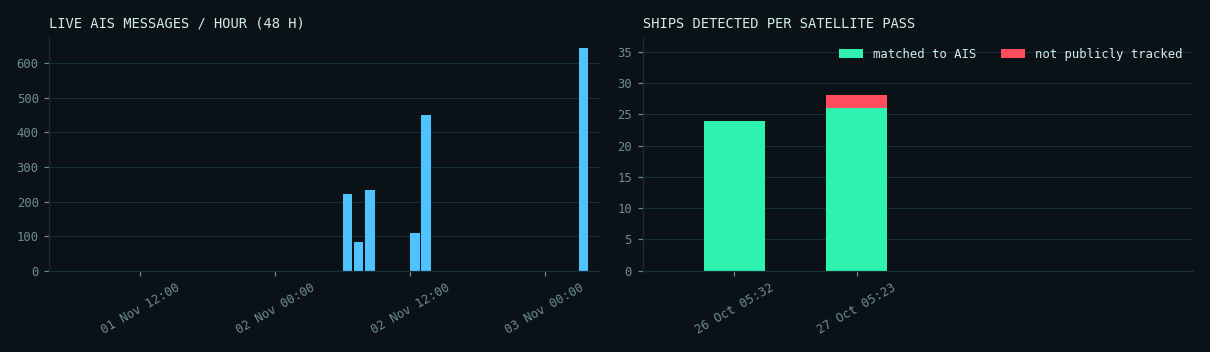
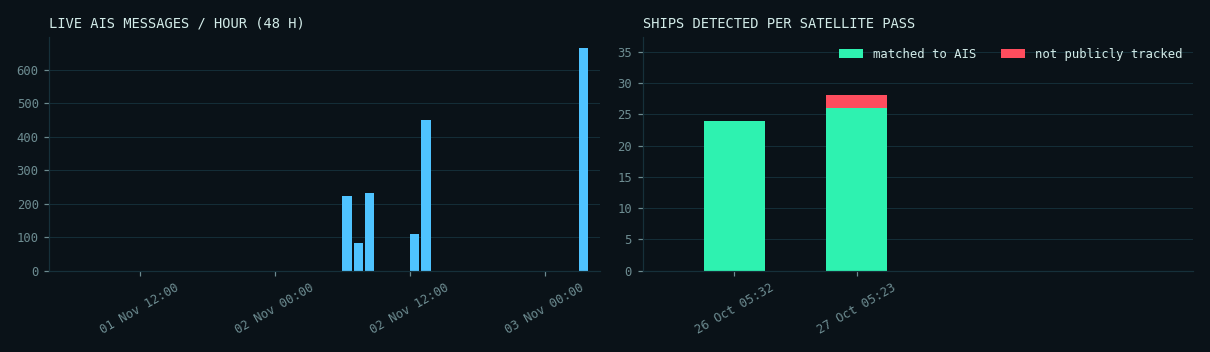
Automatic site update 2026-11-03 03:56 UTC

diff --git a/docs/denmark/index.html b/docs/denmark/index.html
@@ -83,7 +83,7 @@ footer{border-top:1px solid var(--line);padding:18px 0 28px;font:12px/1.6 var(--
   <div><div class="kicker">SAR &times; AIS &middot; MARITIME AWARENESS</div><div class="title">DARK VESSEL <b>DETECTION</b></div></div></a>
  <div class="status"><span class="pill"><span class="dot live"></span>AIS FEED <strong>LIVE</strong></span>
   <span class="pill">UTC <strong id="utc">--:--:--</strong></span>
-  <span class="pill">UPDATED <strong>03 Nov 03:55</strong></span></div>
+  <span class="pill">UPDATED <strong>03 Nov 03:57</strong></span></div>
 </div><nav class="tabs"><a class="" href="../index.html">OVERVIEW</a><a class="" href="../mumbai/index.html">MUMBAI</a><a class="on" href="../denmark/index.html">DENMARK</a><a class="" href="../nn/index.html">NEURAL NET</a><a class="" href="../demo/index.html">SIMULATION</a></nav></div></header>
 <main class="wrap"><div class="coords">SECTOR // DENMARK &middot; 55.55&ndash;55.85&deg;N &middot; 12.55&ndash;12.95&deg;E</div>
 <h1>Oresund, Copenhagen (Denmark/Sweden)</h1><p class="lede">Validation area. Sentinel-1 images it almost daily and coastal AIS coverage is dense, so the full match between radar and AIS can be shown and checked.</p>
@@ -98,7 +98,7 @@ footer{border-top:1px solid var(--line);padding:18px 0 28px;font:12px/1.6 var(--
 <div class="legend"><span><i style="background:var(--green)"></i>matched to AIS</span><span><i style="background:var(--red)"></i>not tracked &middot; high confidence</span>
 <span><i style="background:var(--amber)"></i>not tracked &middot; low confidence</span><span><i style="background:var(--cyan)"></i>live AIS position</span></div>
 <div id="map" class="map"></div><script>
-const D=[{"lon": 12.574560869565218, "lat": 55.849597826086956, "length_m": 72.681575622935, "score": 0.6554655519501138, "shore_km": 0.14150886088341372, "status": "matched", "reason": "", "confidence": "high", "crop": "", "ship_prob": 0.9335045218467712}, {"lon": 12.704759174311928, "lat": 55.82280412844037, "length_m": 364.1071436957287, "score": 0.9904753373251979, "shore_km": 9.407061429825474, "status": "matched", "reason": "", "confidence": "high", "crop": "", "ship_prob": 0.9868959784507751}, {"lon": 12.786416463414636, "lat": 55.804669512195126, "length_m": 155.0522474362954, "score": 0.9999646038759398, "shore_km": 4.658419014138412, "status": "matched", "reason": "", "confidence": "high", "crop": "", "ship_prob": 0.9993557333946228}, {"lon": 12.88229375, "lat": 55.849146875, "length_m": 53.38783327710226, "score": 0.9899546194309776, "shore_km": 0.9067240720863213, "status": "candidate", "reason": "same_spot_in_another_pass", "confidence": "low", "crop": "crops/S1-Oresund-20261027_37.png", "ship_prob": 0.7905591130256653}, {"lon": 12.604004166666668, "lat": 55.75985, "length_m": 141.84238362073958, "score": 0.6867268898684522, "shore_km": 0.07168283192738693, "status": "matched", "reason": "", "confidence": "high", "crop": "", "ship_prob": 0.5051270127296448}, {"lon": 12.605736764705883, "lat": 55.75241323529412, "length_m": 122.11483240811877, "score": 0.9136889320646264, "shore_km": 0.6454382429486746, "status": "candidate", "reason": "same_spot_in_another_pass", "confidence": "low", "crop": "crops/S1-Oresund-20261027_77.png", "ship_prob": 0.7927113175392151}, {"lon": 12.703722571428573, "lat": 55.77917742857143, "length_m": 223.0817648726515, "score": 0.9996320924909895, "shore_km": 5.943270442766068, "status": "matched", "reason": "", "confidence": "high", "crop": "", "ship_prob": 0.9938097596168518}, {"lon": 12.902757692307693, "lat": 55.75654230769231, "length_m": 65.46226537445588, "score": 0.7187896049600956, "shore_km": 0.03584141596369347, "status": "matched", "reason": "", "confidence": "high", "crop": "", "ship_prob": 0.8691755533218384}, {"lon": 12.589922222222222, "lat": 55.725764814814816, "length_m": 146.45480845096748, "score": 0.9957587025210503, "shore_km": 0.034771280891766385, "status": "matched", "reason": "", "confidence": "high", "crop": "", "ship_prob": 0.9983701109886169}, {"lon": 12.598472047244096, "lat": 55.72077913385827, "length_m": 207.62671185403417, "score": 0.609772230082722, "shore_km": 0.14016751439395445, "status": "matched", "reason": "", "confidence": "high", "crop": "", "ship_prob": 0.6074324250221252}, {"lon": 12.589218, "lat": 55.712854, "length_m": 90.49550243938293, "score": 0.6486089656085543, "shore_km": 0.043464101114707984, "status": "matched", "reason": "", "confidence": "high", "crop": "", "ship_prob": 0.9998902082443237}, {"lon": 12.59024090909091, "lat": 55.71147090909091, "length_m": 162.54265478639104, "score": 1.0, "shore_km": 0.06146752127277559, "status": "matched", "reason": "", "confidence": "high", "crop": "", "ship_prob": 0.9999992847442627}, {"lon": 12.597835937500001, "lat": 55.701648437500005, "length_m": 133.31776511703256, "score": 0.9396217092764791, "shore_km": 0.06789309632894441, "status": "matched", "reason": "", "confidence": "high", "crop": "", "ship_prob": 0.9999727010726929}, {"lon": 12.60914, "lat": 55.69712, "length_m": 65.36743236464424, "score": 0.7827588237578229, "shore_km": 0.03134240904220623, "status": "matched", "reason": "", "confidence": "high", "crop": "", "ship_prob": 0.9867132902145386}, {"lon": 12.668552272727274, "lat": 55.72007840909091, "length_m": 207.26605497726354, "score": 0.6251792307103263, "shore_km": 0.03584141596369347, "status": "matched", "reason": "", "confidence": "high", "crop": "", "ship_prob": 0.9087074398994446}, {"lon": 12.5996, "lat": 55.68885, "length_m": 40.00855981470757, "score": 0.7664068666153926, "shore_km": 0.024587008509110237, "status": "matched", "reason": "", "confidence": "high", "crop": "", "ship_prob": 0.9766618013381958}, {"lon": 12.595819230769232, "lat": 55.67989871794872, "length_m": 127.62371588738732, "score": 0.9426870407335851, "shore_km": 0.05068741655051085, "status": "matched", "reason": "", "confidence": "high", "crop": "", "ship_prob": 0.9998841285705566}, {"lon": 12.594722222222224, "lat": 55.67918888888889, "length_m": 40.64467714079742, "score": 0.7639524834029205, "shore_km": 0.043464101114707984, "status": "matched", "reason": "", "confidence": "high", "crop": "", "ship_prob": 0.9999454021453857}, {"lon": 12.610660714285714, "lat": 55.69618571428572, "length_m": 94.51225356515693, "score": 0.9621795096736379, "shore_km": 0.03134240904220623, "status": "matched", "reason": "", "confidence": "high", "crop": "", "ship_prob": 0.999042809009552}, {"lon": 12.649045000000001, "lat": 55.692155, "length_m": 80.63364746000343, "score": 0.8515033668168979, "shore_km": 0.8863693295037299, "status": "matched", "reason": "", "confidence": "high", "crop": "", "ship_prob": 0.4333752989768982}, {"lon": 12.630751724137932, "lat": 55.685453448275865, "length_m": 125.00287123881988, "score": 0.93629426700422, "shore_km": 0.043464101114707984, "status": "matched", "reason": "", "confidence": "high", "crop": "", "ship_prob": 0.9975905418395996}, {"lon": 12.634987254901962, "lat": 55.677338235294116, "length_m": 276.5478352749318, "score": 0.7686103584091717, "shore_km": 0.024587008509110237, "status": "matched", "reason": "", "confidence": "high", "crop": "", "ship_prob": 0.9729636907577515}, {"lon": 12.68766150442478, "lat": 55.69581814159292, "length_m": 176.8074930452176, "score": 0.923202226335388, "shore_km": 2.6834920471942074, "status": "matched", "reason": "", "confidence": "high", "crop": "", "ship_prob": 0.8427141904830933}, {"lon": 12.65826847826087, "lat": 55.63610108695652, "length_m": 174.21377549767067, "score": 0.9833187000337672, "shore_km": 0.043464101114707984, "status": "matched", "reason": "", "confidence": "high", "crop": "", "ship_prob": 0.9998973608016968}, {"lon": 12.680683333333334, "lat": 55.610910000000004, "length_m": 74.22790892756812, "score": 0.6314184609397504, "shore_km": 0.03134240904220623, "status": "matched", "reason": "", "confidence": "high", "crop": "", "ship_prob": 0.44054293632507324}, {"lon": 12.868352132196163, "lat": 55.60022420042644, "length_m": 299.20726350177785, "score": 0.9999960398718075, "shore_km": 2.8169298200726325, "status": "matched", "reason": "", "confidence": "high", "crop": "", "ship_prob": 0.9967911839485168}, {"lon": 12.680875, "lat": 55.59323, "length_m": 95.51211981545671, "score": 0.7585723176580392, "shore_km": 0.03584141596369347, "status": "matched", "reason": "", "confidence": "high", "crop": "", "ship_prob": 0.797581672668457}, {"lon": 12.706387741935485, "lat": 55.56306903225806, "length_m": 301.4640427512081, "score": 0.9999731380181186, "shore_km": 3.1965238712919084, "status": "matched", "reason": "", "confidence": "high", "crop": "", "ship_prob": 0.9941650032997131}],LIVE=[{"lon": 12.82762, "lat": 55.86275333333333, "sog": 0.0, "age": 26}, {"lon": 12.663706666666666, "lat": 55.412910000000004, "sog": 11.5, "age": 21}, {"lon": 12.634113333333334, "lat": 55.675765, "sog": 0.0, "age": 20}, {"lon": 12.599043333333332, "lat": 55.689051666666664, "sog": 0.0, "age": 19}, {"lon": 12.630765, "lat": 55.689825000000006, "sog": 0.0, "age": 18}, {"lon": 12.744438333333333, "lat": 55.993233333333336, "sog": 0.0, "age": 17}, {"lon": 12.67652, "lat": 55.931900000000006, "sog": 0.0, "age": 16}, {"lon": 12.680456666666666, "lat": 55.61125166666667, "sog": 0.0, "age": 16}, {"lon": 12.830421666666666, "lat": 55.85599666666667, "sog": 0.0, "age": 16}, {"lon": 12.997345, "lat": 55.613665, "sog": 0.1, "age": 13}, {"lon": 13.033323333333334, "lat": 55.624559999999995, "sog": 0.0, "age": 12}, {"lon": 12.660731666666667, "lat": 55.404043333333334, "sog": 11.4, "age": 12}, {"lon": 12.635446666666667, "lat": 55.67646833333333, "sog": 0.0, "age": 12}, {"lon": 12.634883333333333, "lat": 55.687149999999995, "sog": 0.0, "age": 10}, {"lon": 12.682801666666668, "lat": 55.69832333333333, "sog": 10.8, "age": 9}, {"lon": 12.67611, "lat": 55.593635, "sog": 0.0, "age": 9}, {"lon": 12.82485, "lat": 55.86593333333334, "sog": 0.0, "age": 9}, {"lon": 12.625303333333333, "lat": 55.69106, "sog": 0.0, "age": 9}, {"lon": 12.66585, "lat": 55.71981, "sog": 0.0, "age": 8}, {"lon": 12.720586666666666, "lat": 55.77486333333333, "sog": 5.8, "age": 7}, {"lon": 12.942929999999999, "lat": 55.613095, "sog": 12.3, "age": 7}, {"lon": 12.82818, "lat": 55.861711666666665, "sog": 0.0, "age": 7}, {"lon": 12.832903333333332, "lat": 55.85850666666667, "sog": 0.0, "age": 6}, {"lon": 12.635610000000002, "lat": 55.910315, "sog": 10.0, "age": 6}, {"lon": 12.680176666666666, "lat": 55.592830000000006, "sog": 0.0, "age": 5}, {"lon": 12.835306666666666, "lat": 55.85993, "sog": 0.0, "age": 5}, {"lon": 12.722663333333333, "lat": 55.903733333333335, "sog": 0.0, "age": 5}, {"lon": 12.68361, "lat": 55.40688, "sog": 13.8, "age": 5}, {"lon": 13.058493333333333, "lat": 55.67565666666667, "sog": 0.0, "age": 4}, {"lon": 13.035161666666665, "lat": 55.62470666666666, "sog": 0.1, "age": 4}, {"lon": 12.729711666666667, "lat": 55.75168166666666, "sog": 0.1, "age": 3}, {"lon": 12.83193, "lat": 55.85404166666667, "sog": 0.0, "age": 3}, {"lon": 12.729058333333334, "lat": 55.97932333333333, "sog": 0.1, "age": 3}, {"lon": 12.668256666666668, "lat": 55.883095000000004, "sog": 14.1, "age": 3}, {"lon": 12.664031666666666, "lat": 55.720031666666664, "sog": 0.0, "age": 3}, {"lon": 12.572738333333332, "lat": 55.850818333333336, "sog": 0.0, "age": 3}, {"lon": 12.646941666666667, "lat": 55.67738833333333, "sog": 0.0, "age": 3}, {"lon": 12.744426666666667, "lat": 55.99329, "sog": 0.0, "age": 3}, {"lon": 12.680051666666666, "lat": 55.592908333333334, "sog": 0.0, "age": 2}, {"lon": 12.593488333333333, "lat": 55.679165, "sog": 0.0, "age": 2}, {"lon": 12.867756666666667, "lat": 55.60188333333333, "sog": 8.9, "age": 2}, {"lon": 12.823685000000001, "lat": 55.8664, "sog": 0.0, "age": 2}, {"lon": 12.999793333333335, "lat": 55.618365000000004, "sog": 0.0, "age": 2}, {"lon": 12.647506666666667, "lat": 55.67689166666666, "sog": 0.0, "age": 2}, {"lon": 12.708635, "lat": 55.79055666666667, "sog": 8.9, "age": 2}, {"lon": 12.603485000000001, "lat": 55.760515000000005, "sog": 0.0, "age": 1}, {"lon": 12.594953333333333, "lat": 55.682453333333335, "sog": 0.0, "age": 1}, {"lon": 12.90349, "lat": 55.756645000000006, "sog": 0.0, "age": 1}, {"lon": 12.892173333333334, "lat": 55.523715, "sog": 0.0, "age": 1}, {"lon": 13.033809999999999, "lat": 55.62457, "sog": 0.0, "age": 1}, {"lon": 12.710988333333335, "lat": 55.783456666666666, "sog": 8.7, "age": 1}, {"lon": 12.48246, "lat": 55.60140666666667, "sog": 0.0, "age": 1}, {"lon": 12.488291666666667, "lat": 55.517518333333335, "sog": 0.0, "age": 1}, {"lon": 12.592988333333333, "lat": 55.67927833333333, "sog": 0.0, "age": 1}, {"lon": 12.833733333333333, "lat": 55.855716666666666, "sog": 0.0, "age": 1}, {"lon": 12.693576666666667, "lat": 55.635475, "sog": 9.5, "age": 0}, {"lon": 12.676926666666667, "lat": 55.593945, "sog": 0.0, "age": 0}, {"lon": 12.501646666666666, "lat": 55.61079666666667, "sog": 0.0, "age": 0}, {"lon": 12.669806666666666, "lat": 55.429343333333335, "sog": 9.9, "age": 0}],B=[[55.55,12.55],[55.85,12.95]];const m=L.map('map',{zoomSnap:.25}).fitBounds(B);
+const D=[{"lon": 12.574560869565218, "lat": 55.849597826086956, "length_m": 72.681575622935, "score": 0.6554655519501138, "shore_km": 0.14150886088341372, "status": "matched", "reason": "", "confidence": "high", "crop": "", "ship_prob": 0.9335045218467712}, {"lon": 12.704759174311928, "lat": 55.82280412844037, "length_m": 364.1071436957287, "score": 0.9904753373251979, "shore_km": 9.407061429825474, "status": "matched", "reason": "", "confidence": "high", "crop": "", "ship_prob": 0.9868959784507751}, {"lon": 12.786416463414636, "lat": 55.804669512195126, "length_m": 155.0522474362954, "score": 0.9999646038759398, "shore_km": 4.658419014138412, "status": "matched", "reason": "", "confidence": "high", "crop": "", "ship_prob": 0.9993557333946228}, {"lon": 12.88229375, "lat": 55.849146875, "length_m": 53.38783327710226, "score": 0.9899546194309776, "shore_km": 0.9067240720863213, "status": "candidate", "reason": "same_spot_in_another_pass", "confidence": "low", "crop": "crops/S1-Oresund-20261027_37.png", "ship_prob": 0.7905591130256653}, {"lon": 12.604004166666668, "lat": 55.75985, "length_m": 141.84238362073958, "score": 0.6867268898684522, "shore_km": 0.07168283192738693, "status": "matched", "reason": "", "confidence": "high", "crop": "", "ship_prob": 0.5051270127296448}, {"lon": 12.605736764705883, "lat": 55.75241323529412, "length_m": 122.11483240811877, "score": 0.9136889320646264, "shore_km": 0.6454382429486746, "status": "candidate", "reason": "same_spot_in_another_pass", "confidence": "low", "crop": "crops/S1-Oresund-20261027_77.png", "ship_prob": 0.7927113175392151}, {"lon": 12.703722571428573, "lat": 55.77917742857143, "length_m": 223.0817648726515, "score": 0.9996320924909895, "shore_km": 5.943270442766068, "status": "matched", "reason": "", "confidence": "high", "crop": "", "ship_prob": 0.9938097596168518}, {"lon": 12.902757692307693, "lat": 55.75654230769231, "length_m": 65.46226537445588, "score": 0.7187896049600956, "shore_km": 0.03584141596369347, "status": "matched", "reason": "", "confidence": "high", "crop": "", "ship_prob": 0.8691755533218384}, {"lon": 12.589922222222222, "lat": 55.725764814814816, "length_m": 146.45480845096748, "score": 0.9957587025210503, "shore_km": 0.034771280891766385, "status": "matched", "reason": "", "confidence": "high", "crop": "", "ship_prob": 0.9983701109886169}, {"lon": 12.598472047244096, "lat": 55.72077913385827, "length_m": 207.62671185403417, "score": 0.609772230082722, "shore_km": 0.14016751439395445, "status": "matched", "reason": "", "confidence": "high", "crop": "", "ship_prob": 0.6074324250221252}, {"lon": 12.589218, "lat": 55.712854, "length_m": 90.49550243938293, "score": 0.6486089656085543, "shore_km": 0.043464101114707984, "status": "matched", "reason": "", "confidence": "high", "crop": "", "ship_prob": 0.9998902082443237}, {"lon": 12.59024090909091, "lat": 55.71147090909091, "length_m": 162.54265478639104, "score": 1.0, "shore_km": 0.06146752127277559, "status": "matched", "reason": "", "confidence": "high", "crop": "", "ship_prob": 0.9999992847442627}, {"lon": 12.597835937500001, "lat": 55.701648437500005, "length_m": 133.31776511703256, "score": 0.9396217092764791, "shore_km": 0.06789309632894441, "status": "matched", "reason": "", "confidence": "high", "crop": "", "ship_prob": 0.9999727010726929}, {"lon": 12.60914, "lat": 55.69712, "length_m": 65.36743236464424, "score": 0.7827588237578229, "shore_km": 0.03134240904220623, "status": "matched", "reason": "", "confidence": "high", "crop": "", "ship_prob": 0.9867132902145386}, {"lon": 12.668552272727274, "lat": 55.72007840909091, "length_m": 207.26605497726354, "score": 0.6251792307103263, "shore_km": 0.03584141596369347, "status": "matched", "reason": "", "confidence": "high", "crop": "", "ship_prob": 0.9087074398994446}, {"lon": 12.5996, "lat": 55.68885, "length_m": 40.00855981470757, "score": 0.7664068666153926, "shore_km": 0.024587008509110237, "status": "matched", "reason": "", "confidence": "high", "crop": "", "ship_prob": 0.9766618013381958}, {"lon": 12.595819230769232, "lat": 55.67989871794872, "length_m": 127.62371588738732, "score": 0.9426870407335851, "shore_km": 0.05068741655051085, "status": "matched", "reason": "", "confidence": "high", "crop": "", "ship_prob": 0.9998841285705566}, {"lon": 12.594722222222224, "lat": 55.67918888888889, "length_m": 40.64467714079742, "score": 0.7639524834029205, "shore_km": 0.043464101114707984, "status": "matched", "reason": "", "confidence": "high", "crop": "", "ship_prob": 0.9999454021453857}, {"lon": 12.610660714285714, "lat": 55.69618571428572, "length_m": 94.51225356515693, "score": 0.9621795096736379, "shore_km": 0.03134240904220623, "status": "matched", "reason": "", "confidence": "high", "crop": "", "ship_prob": 0.999042809009552}, {"lon": 12.649045000000001, "lat": 55.692155, "length_m": 80.63364746000343, "score": 0.8515033668168979, "shore_km": 0.8863693295037299, "status": "matched", "reason": "", "confidence": "high", "crop": "", "ship_prob": 0.4333752989768982}, {"lon": 12.630751724137932, "lat": 55.685453448275865, "length_m": 125.00287123881988, "score": 0.93629426700422, "shore_km": 0.043464101114707984, "status": "matched", "reason": "", "confidence": "high", "crop": "", "ship_prob": 0.9975905418395996}, {"lon": 12.634987254901962, "lat": 55.677338235294116, "length_m": 276.5478352749318, "score": 0.7686103584091717, "shore_km": 0.024587008509110237, "status": "matched", "reason": "", "confidence": "high", "crop": "", "ship_prob": 0.9729636907577515}, {"lon": 12.68766150442478, "lat": 55.69581814159292, "length_m": 176.8074930452176, "score": 0.923202226335388, "shore_km": 2.6834920471942074, "status": "matched", "reason": "", "confidence": "high", "crop": "", "ship_prob": 0.8427141904830933}, {"lon": 12.65826847826087, "lat": 55.63610108695652, "length_m": 174.21377549767067, "score": 0.9833187000337672, "shore_km": 0.043464101114707984, "status": "matched", "reason": "", "confidence": "high", "crop": "", "ship_prob": 0.9998973608016968}, {"lon": 12.680683333333334, "lat": 55.610910000000004, "length_m": 74.22790892756812, "score": 0.6314184609397504, "shore_km": 0.03134240904220623, "status": "matched", "reason": "", "confidence": "high", "crop": "", "ship_prob": 0.44054293632507324}, {"lon": 12.868352132196163, "lat": 55.60022420042644, "length_m": 299.20726350177785, "score": 0.9999960398718075, "shore_km": 2.8169298200726325, "status": "matched", "reason": "", "confidence": "high", "crop": "", "ship_prob": 0.9967911839485168}, {"lon": 12.680875, "lat": 55.59323, "length_m": 95.51211981545671, "score": 0.7585723176580392, "shore_km": 0.03584141596369347, "status": "matched", "reason": "", "confidence": "high", "crop": "", "ship_prob": 0.797581672668457}, {"lon": 12.706387741935485, "lat": 55.56306903225806, "length_m": 301.4640427512081, "score": 0.9999731380181186, "shore_km": 3.1965238712919084, "status": "matched", "reason": "", "confidence": "high", "crop": "", "ship_prob": 0.9941650032997131}],LIVE=[{"lon": 12.82762, "lat": 55.86275333333333, "sog": 0.0, "age": 28}, {"lon": 12.663706666666666, "lat": 55.412910000000004, "sog": 11.5, "age": 22}, {"lon": 12.599043333333332, "lat": 55.689051666666664, "sog": 0.0, "age": 20}, {"lon": 12.630765, "lat": 55.689825000000006, "sog": 0.0, "age": 19}, {"lon": 12.744438333333333, "lat": 55.993233333333336, "sog": 0.0, "age": 18}, {"lon": 12.680456666666666, "lat": 55.61125166666667, "sog": 0.0, "age": 17}, {"lon": 12.830421666666666, "lat": 55.85599666666667, "sog": 0.0, "age": 17}, {"lon": 12.997345, "lat": 55.613665, "sog": 0.1, "age": 15}, {"lon": 13.033323333333334, "lat": 55.624559999999995, "sog": 0.0, "age": 14}, {"lon": 12.660731666666667, "lat": 55.404043333333334, "sog": 11.4, "age": 13}, {"lon": 12.635446666666667, "lat": 55.67646833333333, "sog": 0.0, "age": 13}, {"lon": 12.634883333333333, "lat": 55.687149999999995, "sog": 0.0, "age": 12}, {"lon": 12.682801666666668, "lat": 55.69832333333333, "sog": 10.8, "age": 11}, {"lon": 12.67611, "lat": 55.593635, "sog": 0.0, "age": 11}, {"lon": 12.82485, "lat": 55.86593333333334, "sog": 0.0, "age": 10}, {"lon": 12.625303333333333, "lat": 55.69106, "sog": 0.0, "age": 10}, {"lon": 12.66585, "lat": 55.71981, "sog": 0.0, "age": 10}, {"lon": 12.720586666666666, "lat": 55.77486333333333, "sog": 5.8, "age": 9}, {"lon": 12.942929999999999, "lat": 55.613095, "sog": 12.3, "age": 8}, {"lon": 12.82818, "lat": 55.861711666666665, "sog": 0.0, "age": 8}, {"lon": 12.832903333333332, "lat": 55.85850666666667, "sog": 0.0, "age": 8}, {"lon": 12.635610000000002, "lat": 55.910315, "sog": 10.0, "age": 8}, {"lon": 12.680176666666666, "lat": 55.592830000000006, "sog": 0.0, "age": 7}, {"lon": 12.835306666666666, "lat": 55.85993, "sog": 0.0, "age": 6}, {"lon": 12.722663333333333, "lat": 55.903733333333335, "sog": 0.0, "age": 6}, {"lon": 13.035161666666665, "lat": 55.62470666666666, "sog": 0.1, "age": 6}, {"lon": 12.729711666666667, "lat": 55.75168166666666, "sog": 0.1, "age": 5}, {"lon": 12.83193, "lat": 55.85404166666667, "sog": 0.0, "age": 5}, {"lon": 12.729058333333334, "lat": 55.97932333333333, "sog": 0.1, "age": 5}, {"lon": 12.668256666666668, "lat": 55.883095000000004, "sog": 14.1, "age": 4}, {"lon": 12.572738333333332, "lat": 55.850818333333336, "sog": 0.0, "age": 4}, {"lon": 12.646941666666667, "lat": 55.67738833333333, "sog": 0.0, "age": 4}, {"lon": 12.593488333333333, "lat": 55.679165, "sog": 0.0, "age": 4}, {"lon": 12.867756666666667, "lat": 55.60188333333333, "sog": 8.9, "age": 4}, {"lon": 12.999793333333335, "lat": 55.618365000000004, "sog": 0.0, "age": 3}, {"lon": 12.647506666666667, "lat": 55.67689166666666, "sog": 0.0, "age": 3}, {"lon": 12.708635, "lat": 55.79055666666667, "sog": 8.9, "age": 3}, {"lon": 12.603485000000001, "lat": 55.760515000000005, "sog": 0.0, "age": 3}, {"lon": 12.594953333333333, "lat": 55.682453333333335, "sog": 0.0, "age": 3}, {"lon": 12.90349, "lat": 55.756645000000006, "sog": 0.0, "age": 3}, {"lon": 12.892173333333334, "lat": 55.523715, "sog": 0.0, "age": 3}, {"lon": 13.033809999999999, "lat": 55.62457, "sog": 0.0, "age": 3}, {"lon": 12.710988333333335, "lat": 55.783456666666666, "sog": 8.7, "age": 3}, {"lon": 12.48246, "lat": 55.60140666666667, "sog": 0.0, "age": 2}, {"lon": 12.488291666666667, "lat": 55.517518333333335, "sog": 0.0, "age": 2}, {"lon": 12.592988333333333, "lat": 55.67927833333333, "sog": 0.0, "age": 2}, {"lon": 12.833733333333333, "lat": 55.855716666666666, "sog": 0.0, "age": 2}, {"lon": 12.676926666666667, "lat": 55.593945, "sog": 0.0, "age": 2}, {"lon": 12.501646666666666, "lat": 55.61079666666667, "sog": 0.0, "age": 1}, {"lon": 12.669806666666666, "lat": 55.429343333333335, "sog": 9.9, "age": 1}, {"lon": 12.744428333333333, "lat": 55.993294999999996, "sog": 0.0, "age": 1}, {"lon": 12.66403, "lat": 55.72002166666667, "sog": 0.0, "age": 1}, {"lon": 12.634115000000001, "lat": 55.675765, "sog": 0.0, "age": 1}, {"lon": 13.058506666666666, "lat": 55.675671666666666, "sog": 0.0, "age": 0}, {"lon": 12.694621666666666, "lat": 55.631105000000005, "sog": 9.5, "age": 0}, {"lon": 12.680074999999999, "lat": 55.59289166666667, "sog": 0.0, "age": 0}, {"lon": 12.69024, "lat": 55.430285000000005, "sog": 13.8, "age": 0}, {"lon": 12.823663333333334, "lat": 55.866414999999996, "sog": 0.1, "age": 0}, {"lon": 12.676385, "lat": 55.93203333333334, "sog": 0.0, "age": 0}],B=[[55.55,12.55],[55.85,12.95]];const m=L.map('map',{zoomSnap:.25}).fitBounds(B);
 // re-fit once layout has settled: if the container had no size when the map was created, Leaflet falls back to zoom 0
 const refit=()=>{m.invalidateSize();m.fitBounds(B);};setTimeout(refit,0);window.addEventListener('load',refit);
 // standard OSM tiles (no API key), turned into a dark "radar console" basemap with a CSS filter (.radar-tiles)
@@ -116,7 +116,7 @@ L.control.layers(null,{'Radar detections (selected pass)':det,'Live AIS, last 30
 </script>
 <h2>Pass log</h2><div class='tablewrap'><table><thead><tr><th>pass (UTC)</th><th>ships</th><th>matched</th><th>not tracked</th><th>low conf.</th><th>match rate</th><th>AIS msgs</th></tr></thead><tbody><tr><td>2026-10-27 05:23 UTC</td><td>28</td><td class='ok'>26</td><td class='bad'>0</td><td style='color:var(--amber)'>2</td><td>93%</td><td>10687</td></tr><tr><td>2026-10-26 05:32 UTC</td><td>24</td><td class='ok'>24</td><td class='bad'>0</td><td style='color:var(--amber)'>0</td><td>100%</td><td>11603</td></tr></tbody></table></div>
 <h2>Telemetry</h2><img class="chart" src="charts.png" alt="AIS messages per hour and ships detected per pass">
-<p class="muted mono" style="font-size:12px">Feed gaps in the last 24 h: 8 (1142 min) &middot; AIS messages in the last hour: 644</p>
+<p class="muted mono" style="font-size:12px">Feed gaps in the last 24 h: 8 (1142 min) &middot; AIS messages in the last hour: 666</p>
 <h2>Recent Sentinel-1 acquisitions</h2><ul class="acq"><li>2026-11-02 05:23 UTC</li><li>2026-11-01 16:44 UTC</li><li>2026-11-01 05:31 UTC</li><li>2026-10-31 16:52 UTC</li><li>2026-10-30 17:00 UTC</li><li>2026-10-27 05:23 UTC</li><li>2026-10-26 05:32 UTC</li><li>2026-10-25 16:52 UTC</li></ul></main>
 <footer><div class="wrap">Data: Copernicus Sentinel-1 (ESA) &middot; AIS via aisstream.io and the Danish Maritime Authority &middot;
 coastlines, structures and basemap &copy; OpenStreetMap contributors. Flags are candidates for review, not accusations.</div></footer>

diff --git a/docs/index.html b/docs/index.html
@@ -83,7 +83,7 @@ footer{border-top:1px solid var(--line);padding:18px 0 28px;font:12px/1.6 var(--
   <div><div class="kicker">SAR &times; AIS &middot; MARITIME AWARENESS</div><div class="title">DARK VESSEL <b>DETECTION</b></div></div></a>
  <div class="status"><span class="pill"><span class="dot live"></span>AIS FEED <strong>LIVE</strong></span>
   <span class="pill">UTC <strong id="utc">--:--:--</strong></span>
-  <span class="pill">UPDATED <strong>03 Nov 03:55</strong></span></div>
+  <span class="pill">UPDATED <strong>03 Nov 03:57</strong></span></div>
 </div><nav class="tabs"><a class="on" href="index.html">OVERVIEW</a><a class="" href="mumbai/index.html">MUMBAI</a><a class="" href="denmark/index.html">DENMARK</a><a class="" href="nn/index.html">NEURAL NET</a><a class="" href="demo/index.html">SIMULATION</a></nav></div></header>
 <main class="wrap"><div class="coords">SYSTEM OVERVIEW</div>
 <h1>Ships the radar sees that nobody is tracking</h1>
@@ -121,7 +121,7 @@ same pipeline using historical AIS. Next expected passes: Mumbai about 5 Nov 01:
 receivers with limited range, and ships under about 40 m are not reliably visible to the satellite. Low-confidence flags are the ones the
 data cannot support: beyond receiver range, during an AIS feed gap, or with no AIS recorded.</div>
 <h2>Automatic runs</h2><p class="muted mono" style="font-size:12.5px;margin-top:-4px">Each row is one automatic website rebuild, with the live AIS counts at that moment. Newest first.</p>
-<div class="tablewrap"><table><thead><tr><th>run (UTC)</th><th>mumbai live</th><th>mumbai msg/h</th><th>denmark live</th><th>denmark msg/h</th></tr></thead><tbody><tr><td>2026-11-03 03:55</td><td>0</td><td>0</td><td>59</td><td>644</td></tr><tr><td>2026-11-03 03:41</td><td>0</td><td>0</td><td>58</td><td>348</td></tr><tr><td>2026-11-03 03:40</td><td>0</td><td>0</td><td>58</td><td>330</td></tr><tr><td>2026-11-03 03:26</td><td>0</td><td>0</td><td>31</td><td>65</td></tr><tr><td>2026-11-03 03:24</td><td>0</td><td>0</td><td>27</td><td>52</td></tr><tr><td>2026-11-02 13:37</td><td>0</td><td>0</td><td>68</td><td>479</td></tr><tr><td>2026-11-02 13:34</td><td>0</td><td>0</td><td>68</td><td>448</td></tr><tr><td>2026-11-02 13:21</td><td>0</td><td>0</td><td>63</td><td>313</td></tr><tr><td>2026-11-02 13:05</td><td>0</td><td>0</td><td>62</td><td>160</td></tr><tr><td>2026-11-02 12:58</td><td>0</td><td>0</td><td>50</td><td>96</td></tr><tr><td>2026-11-02 12:42</td><td>0</td><td>0</td><td>9</td><td>9</td></tr><tr><td>2026-11-02 08:09</td><td>0</td><td>0</td><td>62</td><td>171</td></tr><tr><td>2026-11-02 07:53</td><td>0</td><td>0</td><td>19</td><td>49</td></tr><tr><td>2026-11-02 07:39</td><td>0</td><td>0</td><td>0</td><td>166</td></tr><tr><td>2026-11-02 07:27</td><td>0</td><td>0</td><td>0</td><td>222</td></tr><tr><td>2026-11-02 06:48</td><td>0</td><td>0</td><td>58</td><td>148</td></tr><tr><td>2026-11-02 06:33</td><td>0</td><td>0</td><td>5</td><td>6</td></tr><tr><td>2026-11-02 06:29</td><td>0</td><td>0</td><td>0</td><td>0</td></tr><tr><td>2026-11-02 06:25</td><td>0</td><td>0</td><td>0</td><td>0</td></tr><tr><td>2026-11-02 06:20</td><td>0</td><td>0</td><td>0</td><td>0</td></tr><tr><td>2026-11-02 06:10</td><td>0</td><td>0</td><td>0</td><td>0</td></tr><tr><td>2026-11-02 05:55</td><td>0</td><td>0</td><td>36</td><td>341</td></tr><tr><td>2026-11-02 05:40</td><td>0</td><td>0</td><td>38</td><td>353</td></tr><tr><td>2026-11-02 05:24</td><td>0</td><td>0</td><td>35</td><td>311</td></tr></tbody></table></div></main>
+<div class="tablewrap"><table><thead><tr><th>run (UTC)</th><th>mumbai live</th><th>mumbai msg/h</th><th>denmark live</th><th>denmark msg/h</th></tr></thead><tbody><tr><td>2026-11-03 03:57</td><td>0</td><td>0</td><td>59</td><td>666</td></tr><tr><td>2026-11-03 03:55</td><td>0</td><td>0</td><td>59</td><td>644</td></tr><tr><td>2026-11-03 03:41</td><td>0</td><td>0</td><td>58</td><td>348</td></tr><tr><td>2026-11-03 03:40</td><td>0</td><td>0</td><td>58</td><td>330</td></tr><tr><td>2026-11-03 03:26</td><td>0</td><td>0</td><td>31</td><td>65</td></tr><tr><td>2026-11-03 03:24</td><td>0</td><td>0</td><td>27</td><td>52</td></tr><tr><td>2026-11-02 13:37</td><td>0</td><td>0</td><td>68</td><td>479</td></tr><tr><td>2026-11-02 13:34</td><td>0</td><td>0</td><td>68</td><td>448</td></tr><tr><td>2026-11-02 13:21</td><td>0</td><td>0</td><td>63</td><td>313</td></tr><tr><td>2026-11-02 13:05</td><td>0</td><td>0</td><td>62</td><td>160</td></tr><tr><td>2026-11-02 12:58</td><td>0</td><td>0</td><td>50</td><td>96</td></tr><tr><td>2026-11-02 12:42</td><td>0</td><td>0</td><td>9</td><td>9</td></tr><tr><td>2026-11-02 08:09</td><td>0</td><td>0</td><td>62</td><td>171</td></tr><tr><td>2026-11-02 07:53</td><td>0</td><td>0</td><td>19</td><td>49</td></tr><tr><td>2026-11-02 07:39</td><td>0</td><td>0</td><td>0</td><td>166</td></tr><tr><td>2026-11-02 07:27</td><td>0</td><td>0</td><td>0</td><td>222</td></tr><tr><td>2026-11-02 06:48</td><td>0</td><td>0</td><td>58</td><td>148</td></tr><tr><td>2026-11-02 06:33</td><td>0</td><td>0</td><td>5</td><td>6</td></tr><tr><td>2026-11-02 06:29</td><td>0</td><td>0</td><td>0</td><td>0</td></tr><tr><td>2026-11-02 06:25</td><td>0</td><td>0</td><td>0</td><td>0</td></tr><tr><td>2026-11-02 06:20</td><td>0</td><td>0</td><td>0</td><td>0</td></tr><tr><td>2026-11-02 06:10</td><td>0</td><td>0</td><td>0</td><td>0</td></tr><tr><td>2026-11-02 05:55</td><td>0</td><td>0</td><td>36</td><td>341</td></tr><tr><td>2026-11-02 05:40</td><td>0</td><td>0</td><td>38</td><td>353</td></tr></tbody></table></div></main>
 <footer><div class="wrap">Data: Copernicus Sentinel-1 (ESA) &middot; AIS via aisstream.io and the Danish Maritime Authority &middot;
 coastlines, structures and basemap &copy; OpenStreetMap contributors. Flags are candidates for review, not accusations.</div></footer>
 <script>(function(){const e=document.getElementById('utc');const t=()=>e.textContent=new Date().toISOString().slice(11,19);t();setInterval(t,1000);})();</script>

diff --git a/docs/mumbai/index.html b/docs/mumbai/index.html
@@ -83,7 +83,7 @@ footer{border-top:1px solid var(--line);padding:18px 0 28px;font:12px/1.6 var(--
   <div><div class="kicker">SAR &times; AIS &middot; MARITIME AWARENESS</div><div class="title">DARK VESSEL <b>DETECTION</b></div></div></a>
  <div class="status"><span class="pill"><span class="dot live"></span>AIS FEED <strong>LIVE</strong></span>
   <span class="pill">UTC <strong id="utc">--:--:--</strong></span>
-  <span class="pill">UPDATED <strong>03 Nov 03:55</strong></span></div>
+  <span class="pill">UPDATED <strong>03 Nov 03:56</strong></span></div>
 </div><nav class="tabs"><a class="" href="../index.html">OVERVIEW</a><a class="on" href="../mumbai/index.html">MUMBAI</a><a class="" href="../denmark/index.html">DENMARK</a><a class="" href="../nn/index.html">NEURAL NET</a><a class="" href="../demo/index.html">SIMULATION</a></nav></div></header>
 <main class="wrap"><div class="coords">SECTOR // MUMBAI &middot; 18.80&ndash;19.10&deg;N &middot; 72.55&ndash;72.95&deg;E</div>
 <h1>Mumbai coast and harbour, India</h1><p class="lede">The project's target area. Sentinel-1 images it about once every 12 days, and free AIS comes only from coastal receivers, so many unmatched ships here are simply out of receiver range.</p>

diff --git a/docs/demo/index.html b/docs/demo/index.html
@@ -83,7 +83,7 @@ footer{border-top:1px solid var(--line);padding:18px 0 28px;font:12px/1.6 var(--
   <div><div class="kicker">SAR &times; AIS &middot; MARITIME AWARENESS</div><div class="title">DARK VESSEL <b>DETECTION</b></div></div></a>
  <div class="status"><span class="pill"><span class="dot live"></span>AIS FEED <strong>LIVE</strong></span>
   <span class="pill">UTC <strong id="utc">--:--:--</strong></span>
-  <span class="pill">UPDATED <strong>03 Nov 03:55</strong></span></div>
+  <span class="pill">UPDATED <strong>03 Nov 03:57</strong></span></div>
 </div><nav class="tabs"><a class="" href="../index.html">OVERVIEW</a><a class="" href="../mumbai/index.html">MUMBAI</a><a class="" href="../denmark/index.html">DENMARK</a><a class="" href="../nn/index.html">NEURAL NET</a><a class="on" href="../demo/index.html">SIMULATION</a></nav></div></header>
 <main class="wrap"><div class="coords">SIMULATION // SYNTHETIC SCENES WITH KNOWN GROUND TRUTH</div>
 <h1>Simulation: the whole pipeline with a known answer</h1>

diff --git a/docs/nn/index.html b/docs/nn/index.html
@@ -83,7 +83,7 @@ footer{border-top:1px solid var(--line);padding:18px 0 28px;font:12px/1.6 var(--
   <div><div class="kicker">SAR &times; AIS &middot; MARITIME AWARENESS</div><div class="title">DARK VESSEL <b>DETECTION</b></div></div></a>
  <div class="status"><span class="pill"><span class="dot live"></span>AIS FEED <strong>LIVE</strong></span>
   <span class="pill">UTC <strong id="utc">--:--:--</strong></span>
-  <span class="pill">UPDATED <strong>03 Nov 03:55</strong></span></div>
+  <span class="pill">UPDATED <strong>03 Nov 03:57</strong></span></div>
 </div><nav class="tabs"><a class="" href="../index.html">OVERVIEW</a><a class="" href="../mumbai/index.html">MUMBAI</a><a class="" href="../denmark/index.html">DENMARK</a><a class="on" href="../nn/index.html">NEURAL NET</a><a class="" href="../demo/index.html">SIMULATION</a></nav></div></header>
 <main class="wrap"><div class="coords">NEURAL NETWORK // SHIPCNN</div>
 <h1>ShipCNN: our own convolutional network that decides "is this a ship?"</h1>
